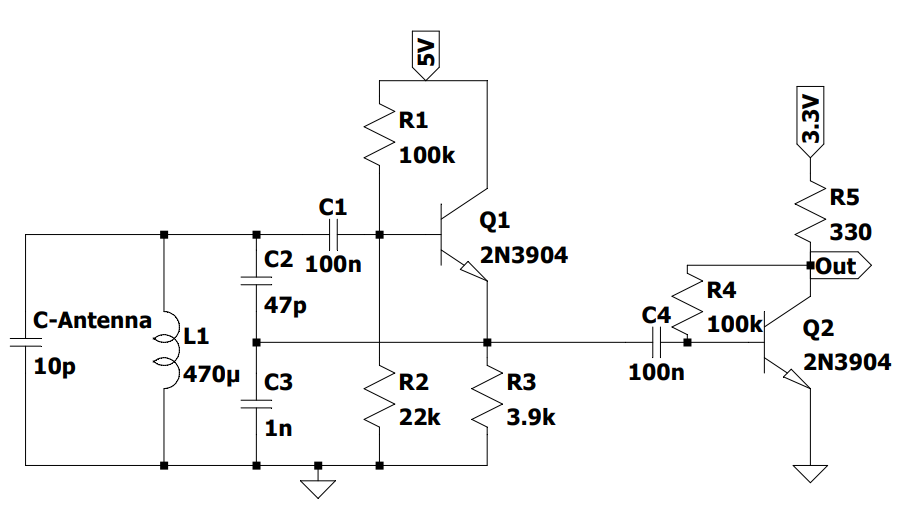
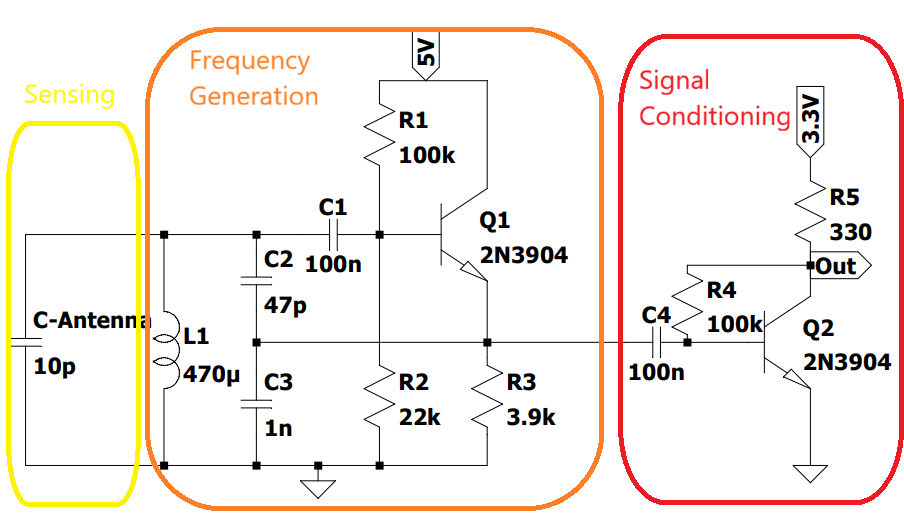
sening en conlusie aanpassingen

diff --git a/content/11.Discussion_Conclusion.md b/content/11.Discussion_Conclusion.md
@@ -1,7 +1,7 @@
 # Discussions & Conclusion
 ## Discussions
 ### Sensing
-The sensing module did not give the expected results. The frequency is a lot lower then the expectations that were made based on theory. The expected lowest frequency was found to be $385kHz$, while it was expected to be $920kHz$. The oscillator itself works as expected, but as soon as the antenna is connected it behaves in an unexpected, but not unpredictable way. This is likely due to external factors such as cheap components or parasitic capacitances. The signal conditioning module is able to amplify the signal in a way that it conserves it frequency content, but is readable by the signal processing module.
+The sensing module did not give the expected results. The frequency is a lot lower then the expectations that were made based on theory. The lowest frequency was found to be $385kHz$, while it was expected to be $920kHz$. The oscillator itself works as anticipated, but as soon as the antenna is connected it behaves in an unexpected, but not unpredictable way. This is likely due to external factors such as cheap components or parasitic capacitances. The signal conditioning module is able to amplify the signal in a way that it conserves it frequency content, but is readable by the signal processing module.
 
 
 ### Visualisation
@@ -21,11 +21,11 @@ The Microcontroller can read the Amplitude and waveform select as expected. When
 The mapping the input frequency to a correct output frequency resulted in larger errors. The formula used to curve fit the data points is based on a number of rough approximations that do not accurately represent the exact behavior of the system.
 
 
-### Microprosessor
+### Microprocessor
 
-### Implementation
+### Full system
 
-The implementation shows that the communication between the sensing module and the signal processing module has mixed results. While the signal processing module is able to readout the frequency of the oscillator itself, as soon as the antenna is connected, the signal becomes unstable in readout. While calibration removes a part of this problem, there are still noticeable changes in frequency in a calibrated, static environment. 
+The implementation of the full system shows that the communication between the sensing module and the signal processing module has mixed results. While the signal processing module is able to readout the frequency of the oscillator itself, as soon as the antenna is connected, the signal becomes unstable in readout. While calibration removes a part of this problem, there are still noticeable changes in frequency in a calibrated, static environment. 
 
 The frequency readout by the microcontroller is successfully mapped to an audible frequency. This audible frequency range spans 4 octaves. The microcontroller module reads the selected waveform from the selection button and communicates this, together with the frequency and the amplitude to the microprocessor module.
 
@@ -34,16 +34,6 @@ The microcontroller successfully receives all the data sent by the microcontroll
 The generated wave is fed through a power amplifier and sent into a speaker. This speaker outputs the sound at an audible level for all generated frequencies, while remaining within the limitation set by the [programme of requirements](02.ProgramofRequirements.md). 
 
 The generated sound wave is sent to the visualisation module which is able to accurately show the signal's waveform and the FFT. There is however a noticeable delay between the sound and the visualisation. This could be fixed by optimizing the code, but the current implementation already serves its main educative purpose. 
-
-
-
-
-
-
-## Future Work
-In the future the prototype could be improved on some of its fundamental functions. The antenna is a large issue for the sculpture. The instability provided damages the educational possibilities, so a replacement of the way the antenna functions can drastically improve the overall result.
-
-Another problem is the delay in the visualisation module. Future work could improve on this part by looking at an alternative way to implement this. This could be done by choosing a faster microprocessor or a faster algorithm. 
 
 
 
@@ -64,11 +54,11 @@ The microcontroller can reliable measure the frequency of the input signal with 
 Converting the frequency to a correct output frequency proved to be more challenging. Because of the difficult relation between frequency and hand position, the error between the datapoints and the curve fitted line was quite large. 
 
 
-### Microprosessor
+### Microprocessor
 
 
 
-### Implementation
+### Full system
 The final implementation of the system is able to complete most requirements but fails to complete some. Some of these requirements were unable to be evaluated due to time constraints, lack of the right tools or other factors.
 Some requirements that were not met are:
 - **The device must enable students to observe and manipulate clearly distinguishable frequencies across at least 4 octaves.**
@@ -106,4 +96,10 @@ Same reason as the previous requirement.
 
 Most of these requirements would have been able to be met if not for the time constraints. The prototype needed more time to be used in an educational environment to get a better estimation of how it meets the program of requirements.
 
-To conclude, the overall implementation was a success. Almost every submodule functioned as it was required to do, and the connections between the modules were successful as well. The current system is a function proof of concept but shows that some parts could see minor improvements for a better final product.
+To conclude, the overall implementation was a success. While not every submodule did what is was required to do, the prototype showed to be a promising proof of concept, with connections between the modules being very reliable. But current system shows that some parts could see minor improvements for a better final product.
+
+
+## Future Work
+In the future the prototype could be improved on some of its fundamental functions. The antenna is a large issue for the sculpture. The instability provided damages the educational possibilities, so a replacement of the way the antenna functions can drastically improve the overall result.
+
+Another problem is the delay in the visualisation module. Future work could improve on this part by looking at an alternative way to implement this. This could be done by choosing a faster microprocessor or a faster algorithm. 

diff --git a/content/04.HW_S_Sensing.md b/content/04.HW_S_Sensing.md
@@ -126,7 +126,7 @@ The sensing module is responsible for converting the players hand position into 
 
 The module is divided into three submodules: sensing, frequency generation and signal conditioning. The flow of the system is shown in figure [](sys-overview) below
 
-:::{figure} figures/sensing/sys-overview
+:::{figure} figures/sensing/p2
 :name: sys-overview
 Overview of the submodules
 :::
@@ -209,7 +209,7 @@ The amplifier was able to successfully retain the frequency of the original sign
 ### Full submodule implementation
 To complete the module the oscillator and the signal conditioning module were built on a prototyping board and the antenna was connected via a wire. The full system setup is shown in the figure below
 
-:::{figure} figures/sensing/p2
+:::{figure} figures/sensing/schem-full-circuit
 ---
 name: circuit-setup-lt
 ---